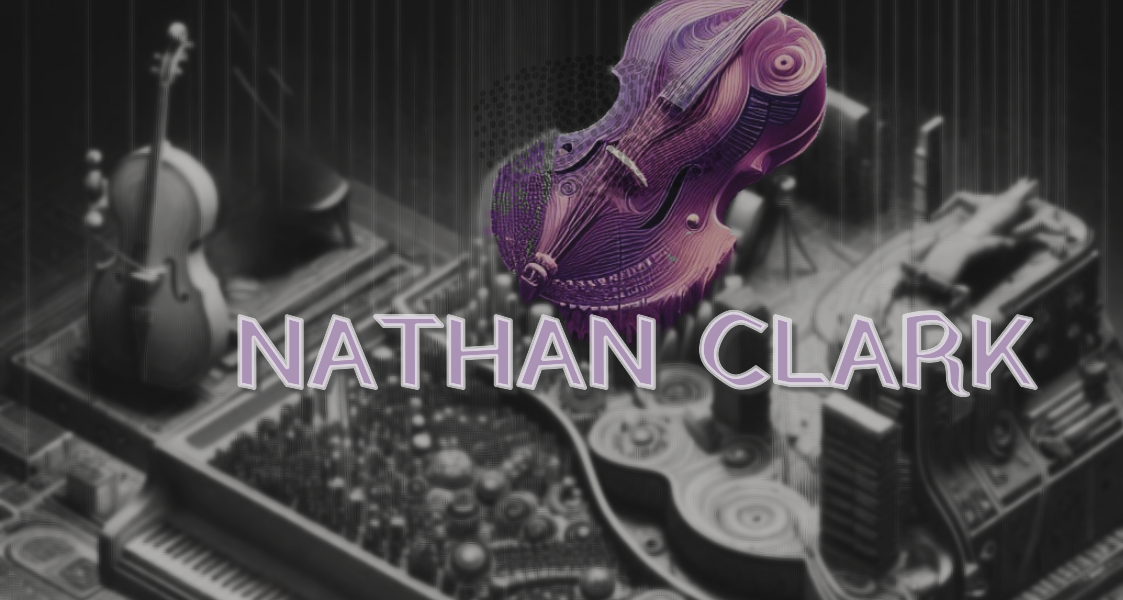
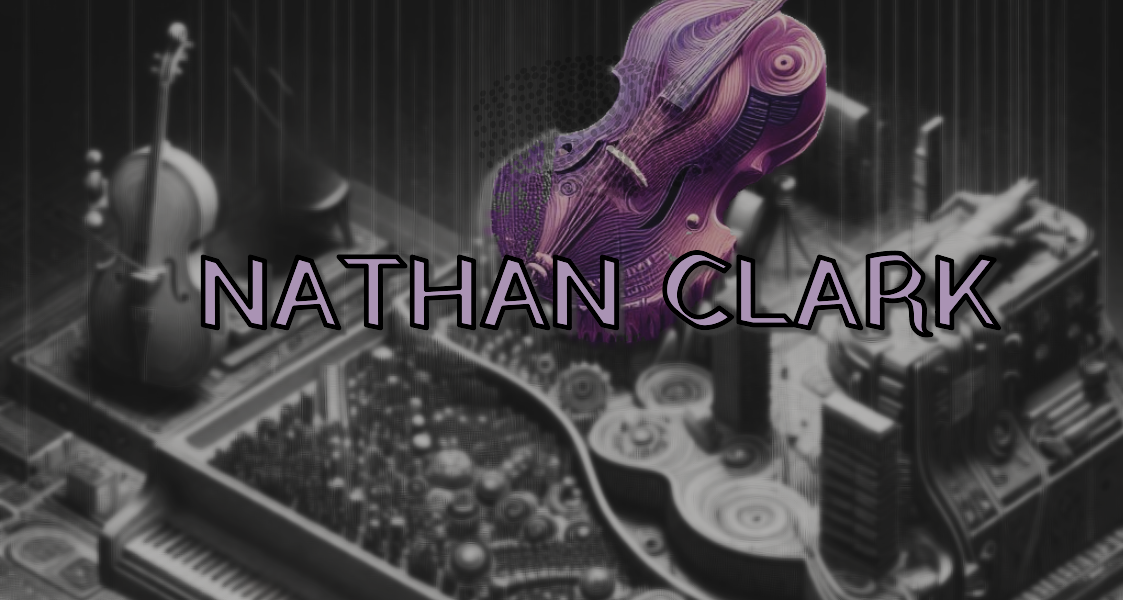
tried to improve the design of the website

Changed region(s): [[0.1558, 0.42, 0.935, 0.66]]

diff --git a/styles.css b/styles.css
@@ -13,6 +13,8 @@ body {
 
 .content {
     flex-grow: 1; /* Ensures the content takes up available space */
+    margin-left: 60px; /* Add space to the left to accommodate the sidebar */
+    padding: 20px;
 }
 
 footer {
@@ -130,23 +132,24 @@ nav.navbar {
 
 .centered-image {
     display: flex;
-    justify-content: center;
-    align-items: center;
-    height: 100vh; /* Optional, for centering the image vertically */
+    justify-content: center; /* Center horizontally */
+    align-items: flex-start; /* Align the image closer to the top */
+    height: 100vh; /* Full viewport height */
+    margin: 0; /* Remove any default margin */
+    position: relative; /* Ensure proper positioning */
 }
 
 .circular-image {
-    width: 800px; /* Increase the size */
-    height: 800px; /* Ensure it's a perfect circle */
-    border-radius: 100%; /* Make it circular */
-    object-fit: contain; /* Ensures the whole image fits within the circle */
-    object-position: center; /* Centers the image within the circle */
+    width: 30vw; /* Responsive width: 30% of the viewport width */
+    height: 30vw; /* Match height to width for a perfect circle */
+    max-width: 1000px; /* Set a maximum size for larger screens */
+    max-height: 1000px; /* Match max height to max width */
+    border-radius: 50%; /* Make it circular */
+    object-fit: contain; /* Ensure the entire image fits within the circle */
+    object-position: center; /* Center the image within the circle */
     display: block;
-    animation: spin 10s linear infinite;
-    transform-origin: center;
-    margin: 0 auto; /* Centers the image horizontally */
-    border: 5px solid rgb(160, 36, 160); /* Purple border */
-    background-color: rgb(32, 32, 32); /* Fill the gaps with gray */
+    border: 5px solid purple; /* Add a purple border */
+    background-color: rgb(27, 27, 27); /* Fill any empty space with gray */
 }
 
 .rounded-title h1 {
@@ -169,7 +172,7 @@ nav.navbar {
     width: 200px;
     height: 700px;
     border-radius: 50%;
-    object-fit: cover;
+    object-fit: center;
     margin: auto;
     display: block;
     transform: scale(0.8);
@@ -197,7 +200,10 @@ nav.navbar {
 
 /* Sidebar styling */
 .sidebar {
-    width: 10%; /* Adjust the width as needed */
+    position: relative;
+    width: 40px; /* Adjust width to fit the lines */
+    height: 100vh; /* Full viewport height */
+    background-color: transparent; /* No background color */
     display: flex;
     flex-direction: column;
     align-items: flex-end; /* Align the vertical lines to the right side */
@@ -213,11 +219,13 @@ nav.navbar {
 
 /* Vertical line styling */
 .vertical-line {
-    width: 2px; /* Initial width of the line */
-    height: 100vh; /* Full height of the viewport */
-    background: linear-gradient(to bottom, #9b5de5, #f15bb5);
-    margin-bottom: 20px; /* Space between the two lines */
-    position: relative;
+    width: 4px; /* Thickness of the line */
+    height: 100%; /* Full height of the container */
+    background-color: #6c757d; /* Neutral gray color */
+    position: absolute;
+    left: 20px; /* Distance from the left edge */
+    top: 0;
+    z-index: 1; /* Ensure it stays behind other elements */
 }
 
 /* Tapering off the line */
@@ -233,10 +241,13 @@ nav.navbar {
 
 /* Styling for the second, darker vertical line */
 .vertical-line-darker {
-    width: 2px; /* Initial width of the line */
-    height: 100vh; /* Full height of the viewport */
-    background: linear-gradient(to bottom, #6b2cb2, #b04891); /* Darker gradient */
-    position: relative;
+    width: 2px; /* Slightly thinner line */
+    height: 100%; /* Full height of the container */
+    background-color: #343a40; /* Darker gray color */
+    position: absolute;
+    left: 24px; /* Slightly offset from the lighter line */
+    top: 0;
+    z-index: 1; /* Ensure it stays behind other elements */
 }
 
 /* Tapering off the darker line */
@@ -449,4 +460,12 @@ btn-gradient:hover {
 
 .key:active {
     background-color: lightgray; /* Change color when pressed */
+}
+
+
+.circular-header {
+    display: flex;
+    justify-content: center; /* Center the image horizontally */
+    align-items: center; /* Center the image vertically */
+    background-color: transparent; /* Remove the purple background */
 }

diff --git a/index.html b/index.html
@@ -137,7 +137,7 @@
                             scrolling="no"
                             height="100%"
                             width="100%"
-                            sandbox="allow-scripts allow-same-origin allow-popups">
+                            sandbox="allow-scripts">
                         </iframe>
                     </div>
                 </div>
@@ -233,7 +233,6 @@
                         <label for="message">Message</label>
                         <textarea class="form-control" id="message" name="message" rows="3" placeholder="Your Message"></textarea>
                     </div>
-                    <input type="text" name="_gotcha" style="display:none">
                     <button type="submit" class="btn btn-primary">Send</button>
                 </form>
             </section>
